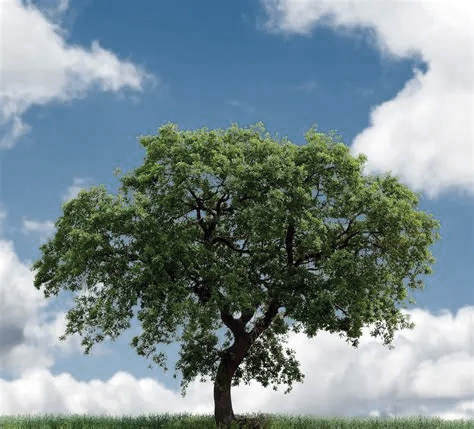
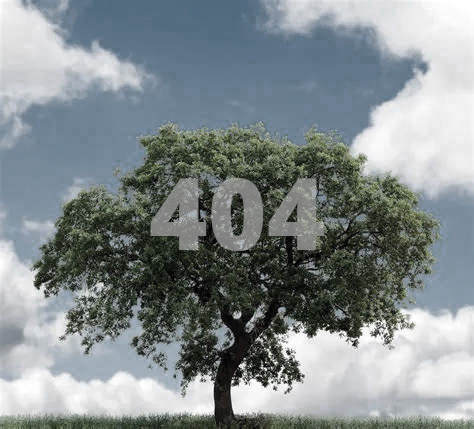
default tree changed

Changed region(s): [[0.2954, 0.3939, 0.7089, 0.6061]]

diff --git a/js/tree_info.js b/js/tree_info.js
@@ -41,7 +41,7 @@ fetch('../data/trees-new.json')
 
       container.innerHTML = `
         <aside class="children" id="tree-details">
-          <img id="tree-image" src="${tree.image || '../images/placeholder.jpg'}" alt="${tree.common_name}">
+          <img id="tree-image" src="${tree.image || '../images/tree/default.jpg'}" alt="${tree.common_name}">
           <div id="main-details">
             <h1>${tree.common_name}</h1>
             <p><strong>Scientific Name:</strong> ${tree.scientific_name || 'N/A'}</p>
